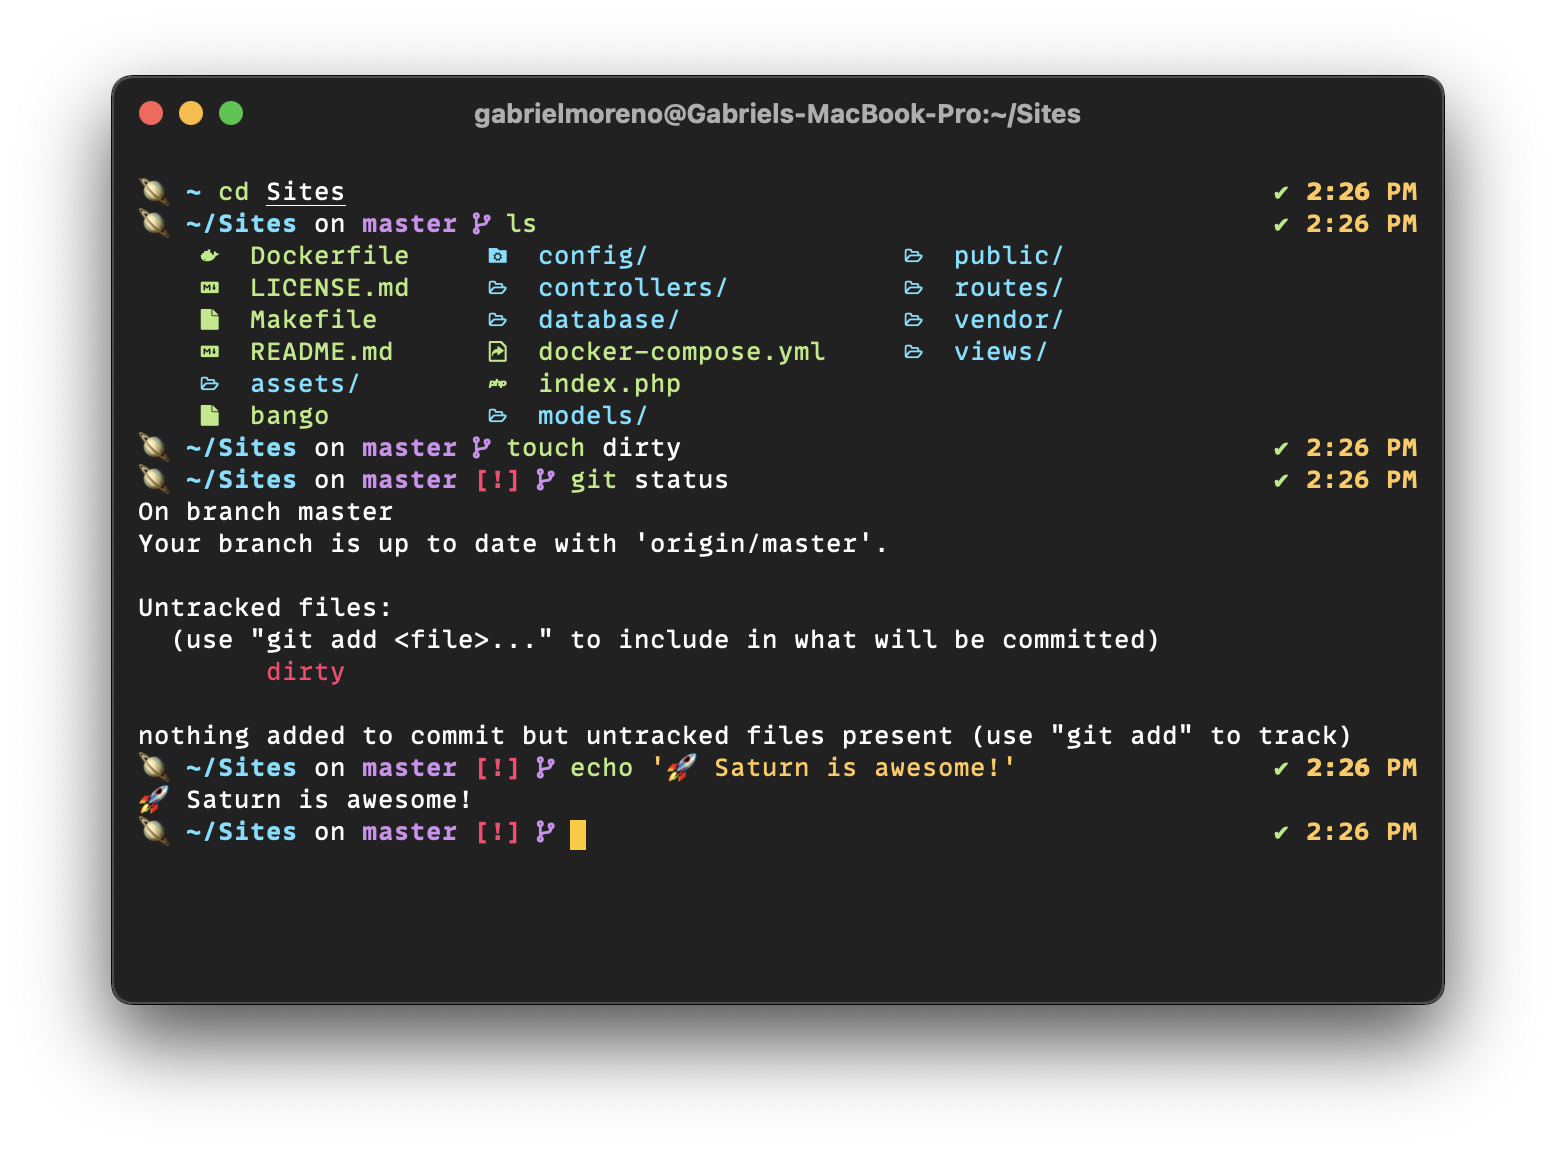
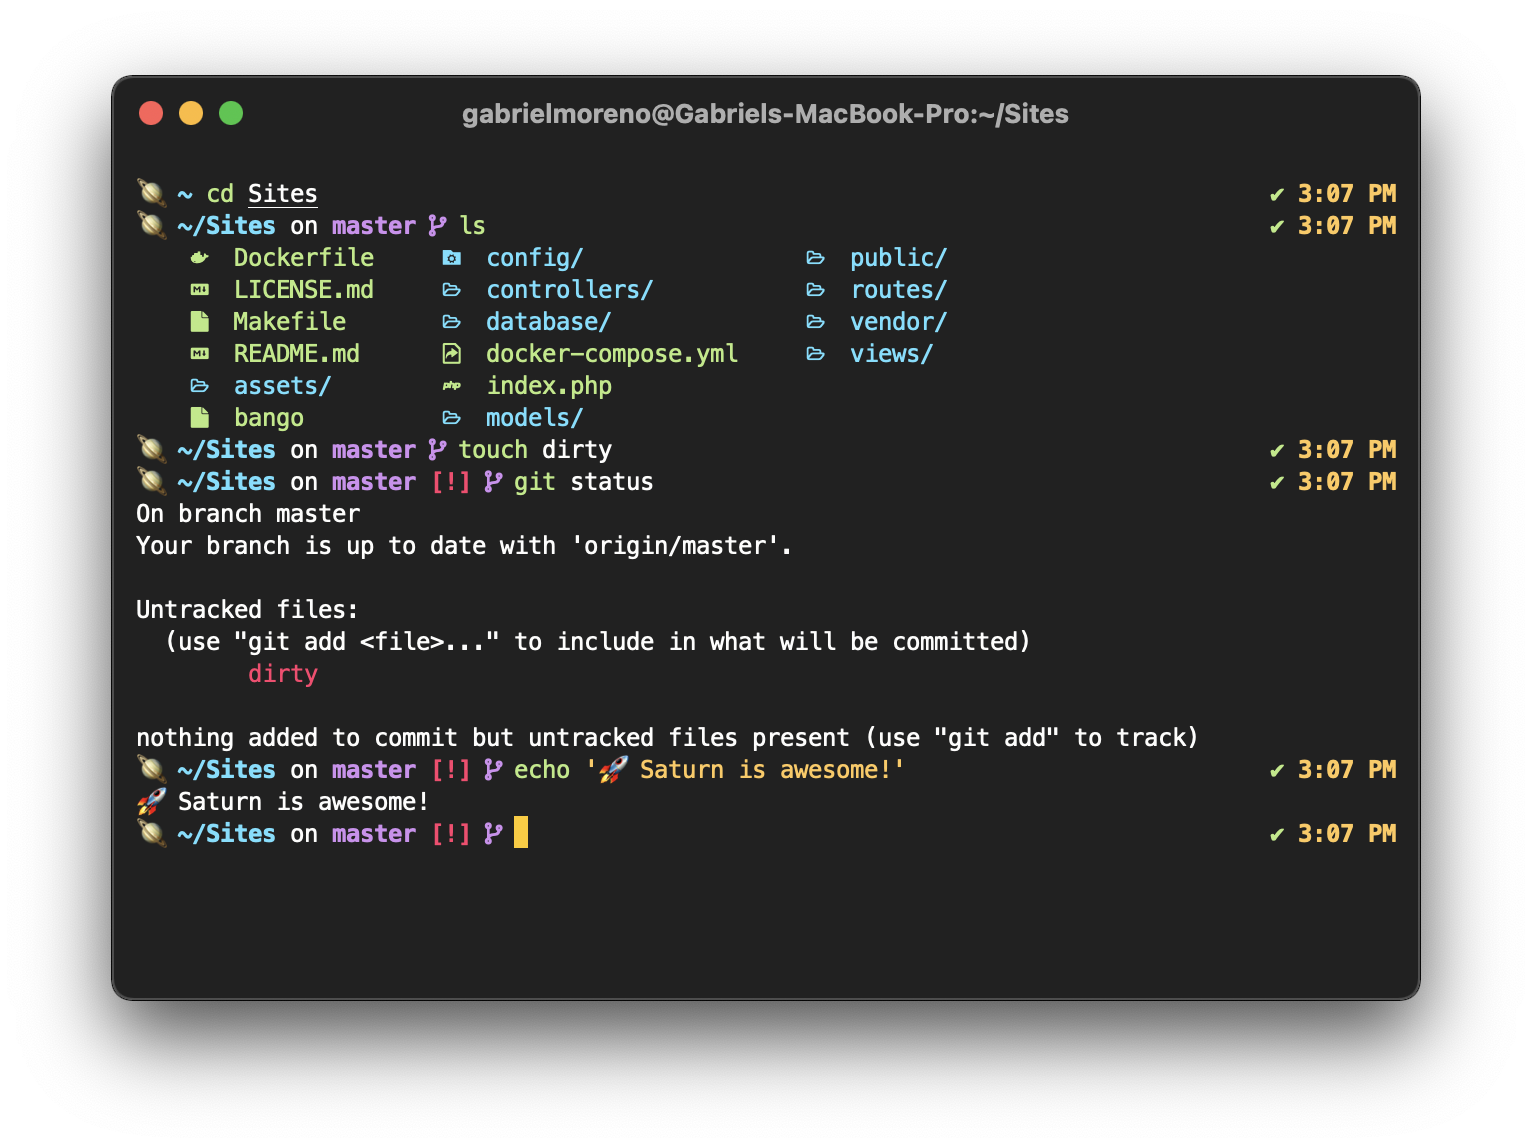
Replace theme screenshot

diff --git a/README.md b/README.md
@@ -10,7 +10,7 @@ Saturn is a soft & minimalistic prompt for those who love space and want to have
 <div align="center">
   <img src="img/saturn.png" alt="Saturn on iTerm2" width="800">
   <br>
-  <sub>Saturn prompt on iTerm2 with <a href="https://github.com/equinusocio">equinusocio</a>'s Material Theme Darker, <a href="https://www.monolisa.dev/">MonoLisa</a> 12px and <code><a href="https://github.com/athityakumar/colorls">colorls</a></code></sub>
+  <sub>Saturn prompt on iTerm2 with <a href="https://github.com/equinusocio">equinusocio</a>'s Material Theme Darker, <a href="https://github.com/romkatv/powerlevel10k-media/blob/master/MesloLGS%20NF%20Regular.ttf">MesloLGS NF</a> 12px and <code><a href="https://github.com/athityakumar/colorls">colorls</a></code></sub>
 </div>
 
 ## Installation
